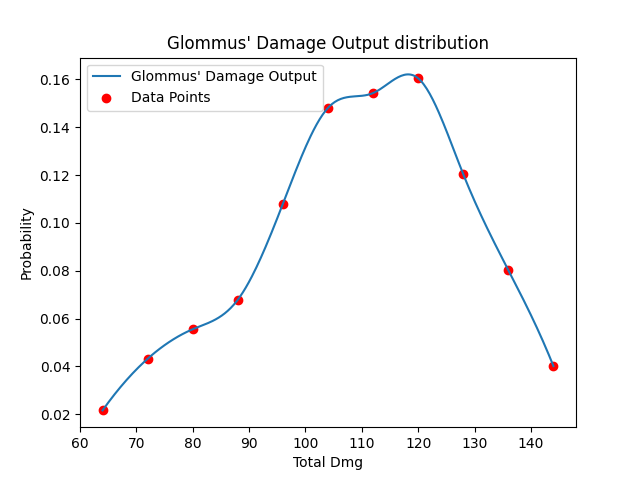
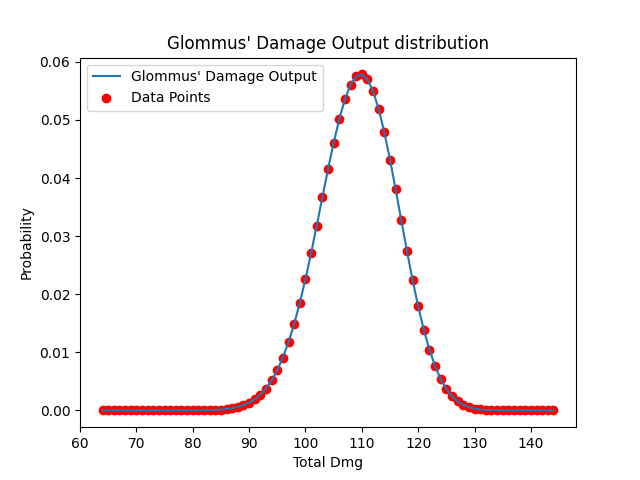
Added damage calc and graph

diff --git a/dmg_output.py b/dmg_output.py
@@ -1,8 +1,15 @@
 #!/bin/python3
 import csv
+from itertools import product
+from matplotlib.font_manager import json
 import matplotlib.pyplot as plt
+import math
+import os
+import time
 import numpy as np
-from scipy.interpolate import make_interp_spline
+
+dmg = 6   # Glommus has +6 on dmg roll
+atks = 8  # Glommus has 8 attacks
 
 
 def calculate_probability():
@@ -39,17 +46,47 @@ for total_sum, probability in result.items():
     print(
         f"The probability of getting a sum of {total_sum} is: {probability:.4f}")
 
-dmg = 6   # Glommus has +6 on dmg roll
-atks = 8  # Glommus has 8 attacks
-
-damage_outputs = [(amount + dmg) * atks for amount in result.keys()]
+all_rolls = [int(roll) for roll in result.keys()]
 probabilities = list(result.values())
 
-x_smooth = np.linspace(min(damage_outputs), max(damage_outputs), 300)
-y_smooth = make_interp_spline(damage_outputs, probabilities)(x_smooth)
+dmg_dist_file = "damage_distribution.json"
+dmg_distribution = {}
 
-plt.plot(x_smooth, y_smooth, label="Glommus' Damage Output")
-plt.scatter(damage_outputs, probabilities, color='red', label='Data Points')
+
+def process_combination(combination, i=0):
+    combination_dmg = sum(combination) + len(combination)*dmg
+    curr_prob = math.prod(result[roll] for roll in combination)
+
+    if combination_dmg not in dmg_distribution:
+        dmg_distribution[combination_dmg] = curr_prob
+    else:
+        dmg_distribution[combination_dmg] += curr_prob
+    if not i % 1e6:
+        print(combination, curr_prob, f"{100*(i/11**8):.2f}%")
+
+
+if os.path.isfile(dmg_dist_file):
+    with open(dmg_dist_file, 'r') as f:
+        dmg_distribution = json.load(f)
+else:
+    start_time = time.time()
+    for i, combination in enumerate(product(all_rolls, repeat=8)):
+        process_combination(combination, i)
+    end_time = time.time()
+    elapsed_time = end_time - start_time
+    print("Execution time:", elapsed_time, "seconds")
+
+
+with open(dmg_dist_file, 'w') as f:
+    json.dump(dmg_distribution, f)
+
+dmg_outputs = [int(d) for d in dmg_distribution.keys()]
+dmg_probs = list(dmg_distribution.values())
+
+plt.plot(dmg_outputs, dmg_probs,
+         label="Glommus' Damage Output")
+plt.scatter(dmg_outputs, dmg_probs,
+            color='red', label='Data Points')
 
 plt.xlabel('Total Dmg')
 plt.ylabel('Probability')
